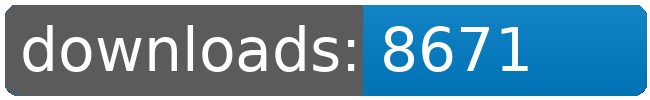
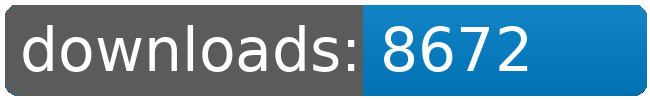
dl log written

Changed region(s): [[0.7692, 0.24, 0.8308, 0.69]]

diff --git a/README.md b/README.md
@@ -43,8 +43,8 @@
 		<td>8611</td>
 		<td>8639</td>
 		<td>8666</td>
-		<td>8671</td>
-		<td>+ 5</td>
+		<td>8672</td>
+		<td>+ 6</td>
 	</tr>
 	<tr>
 		<td>Jaws</td>
@@ -120,8 +120,8 @@
 		<td></td>
 		<td></td>
 		<td></td>
-		<td>61245</td>
-		<td>40</td>
+		<td>61246</td>
+		<td>41</td>
 	</tr>
 </table>
 </sub></sup>
@@ -146,8 +146,8 @@
 		<td>8611</td>
 		<td>8639</td>
 		<td>8666</td>
-		<td>8671</td>
-		<td>+ 5</td>
+		<td>8672</td>
+		<td>+ 6</td>
 	</tr>
 	<tr>
 		<td>Bunsen.Burner</td>
@@ -245,8 +245,8 @@
 		<td></td>
 		<td></td>
 		<td></td>
-		<td>61245</td>
-		<td>40</td>
+		<td>61246</td>
+		<td>41</td>
 	</tr>
 </table>
 </sub></sup>
